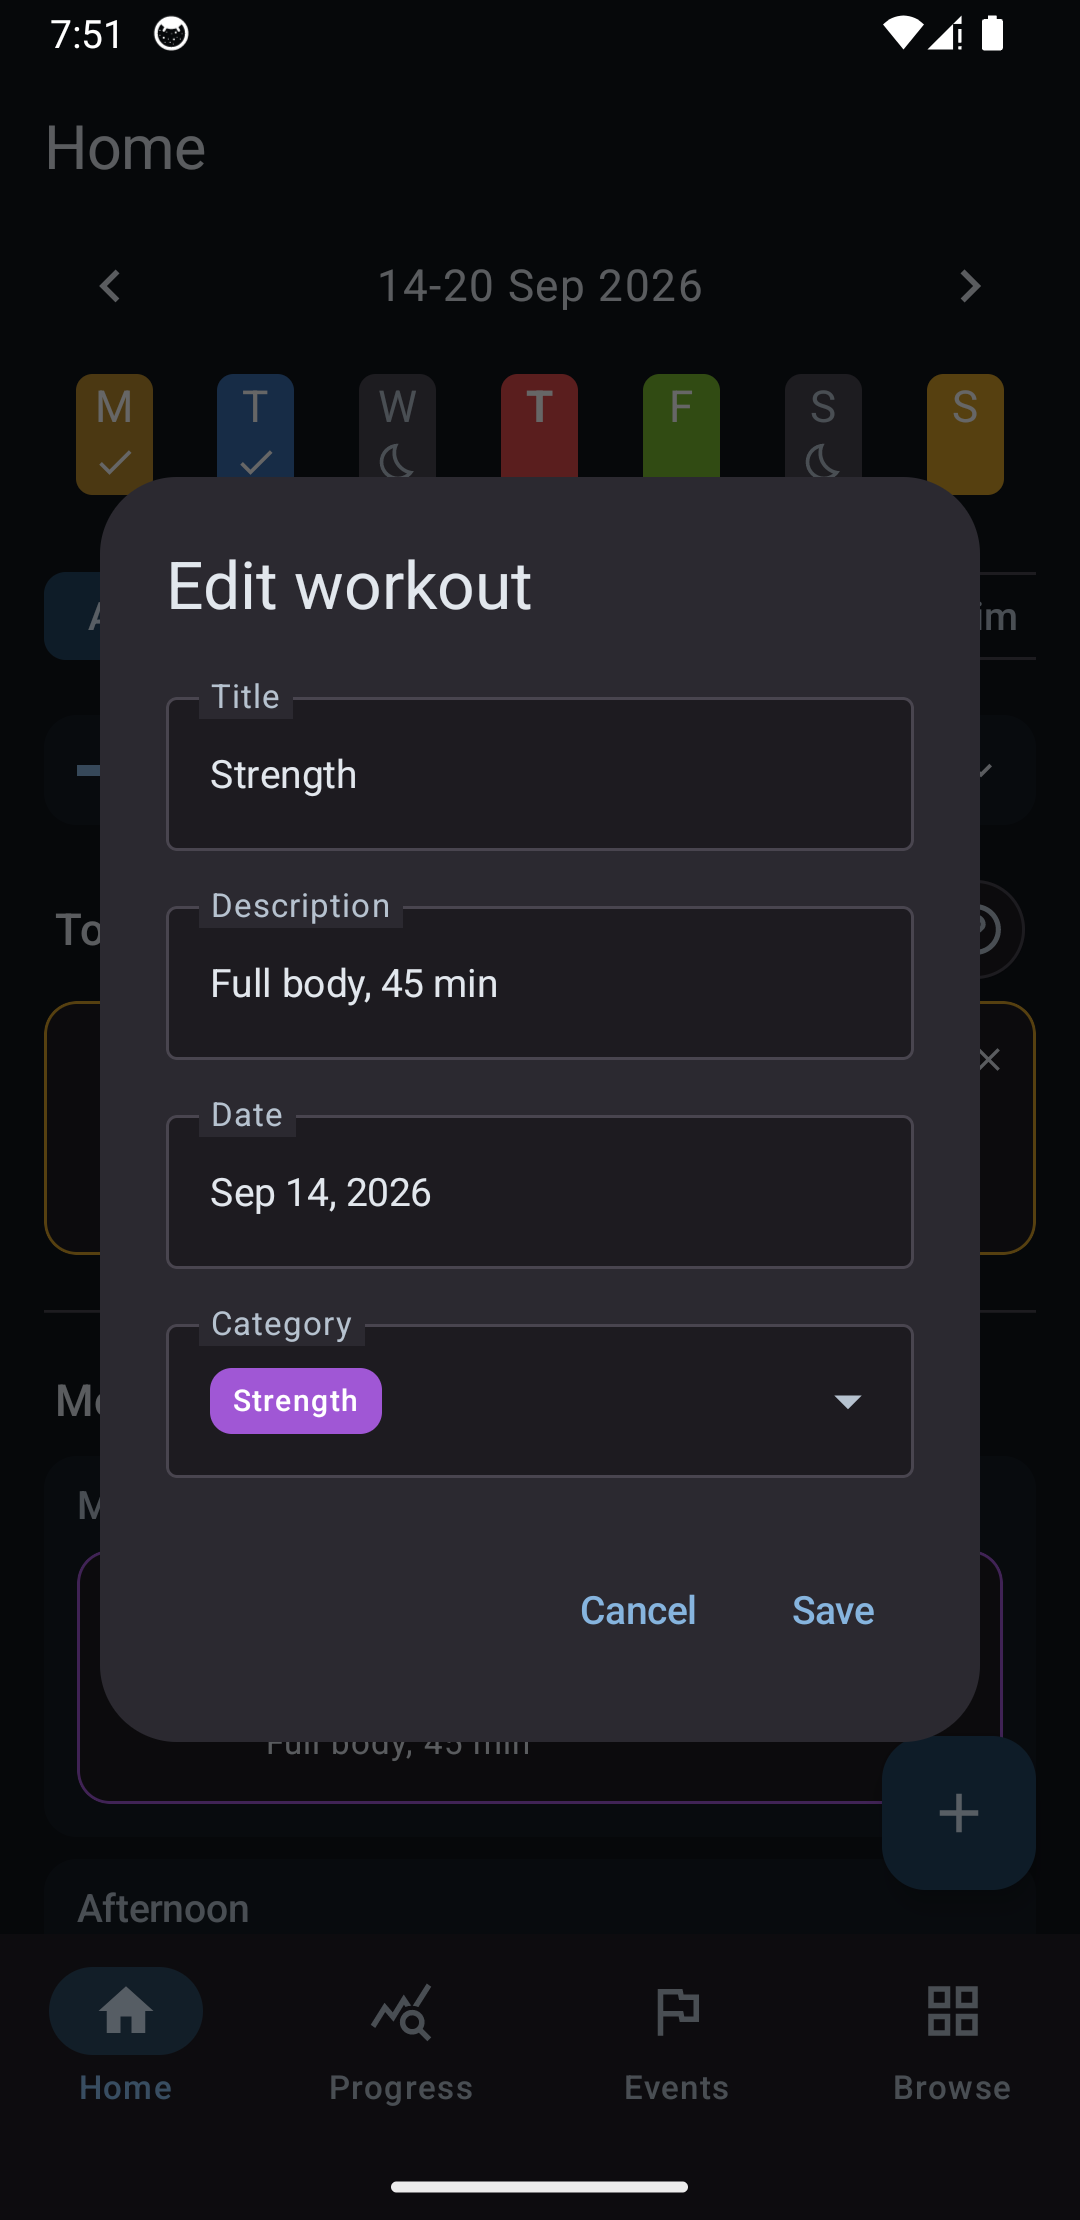
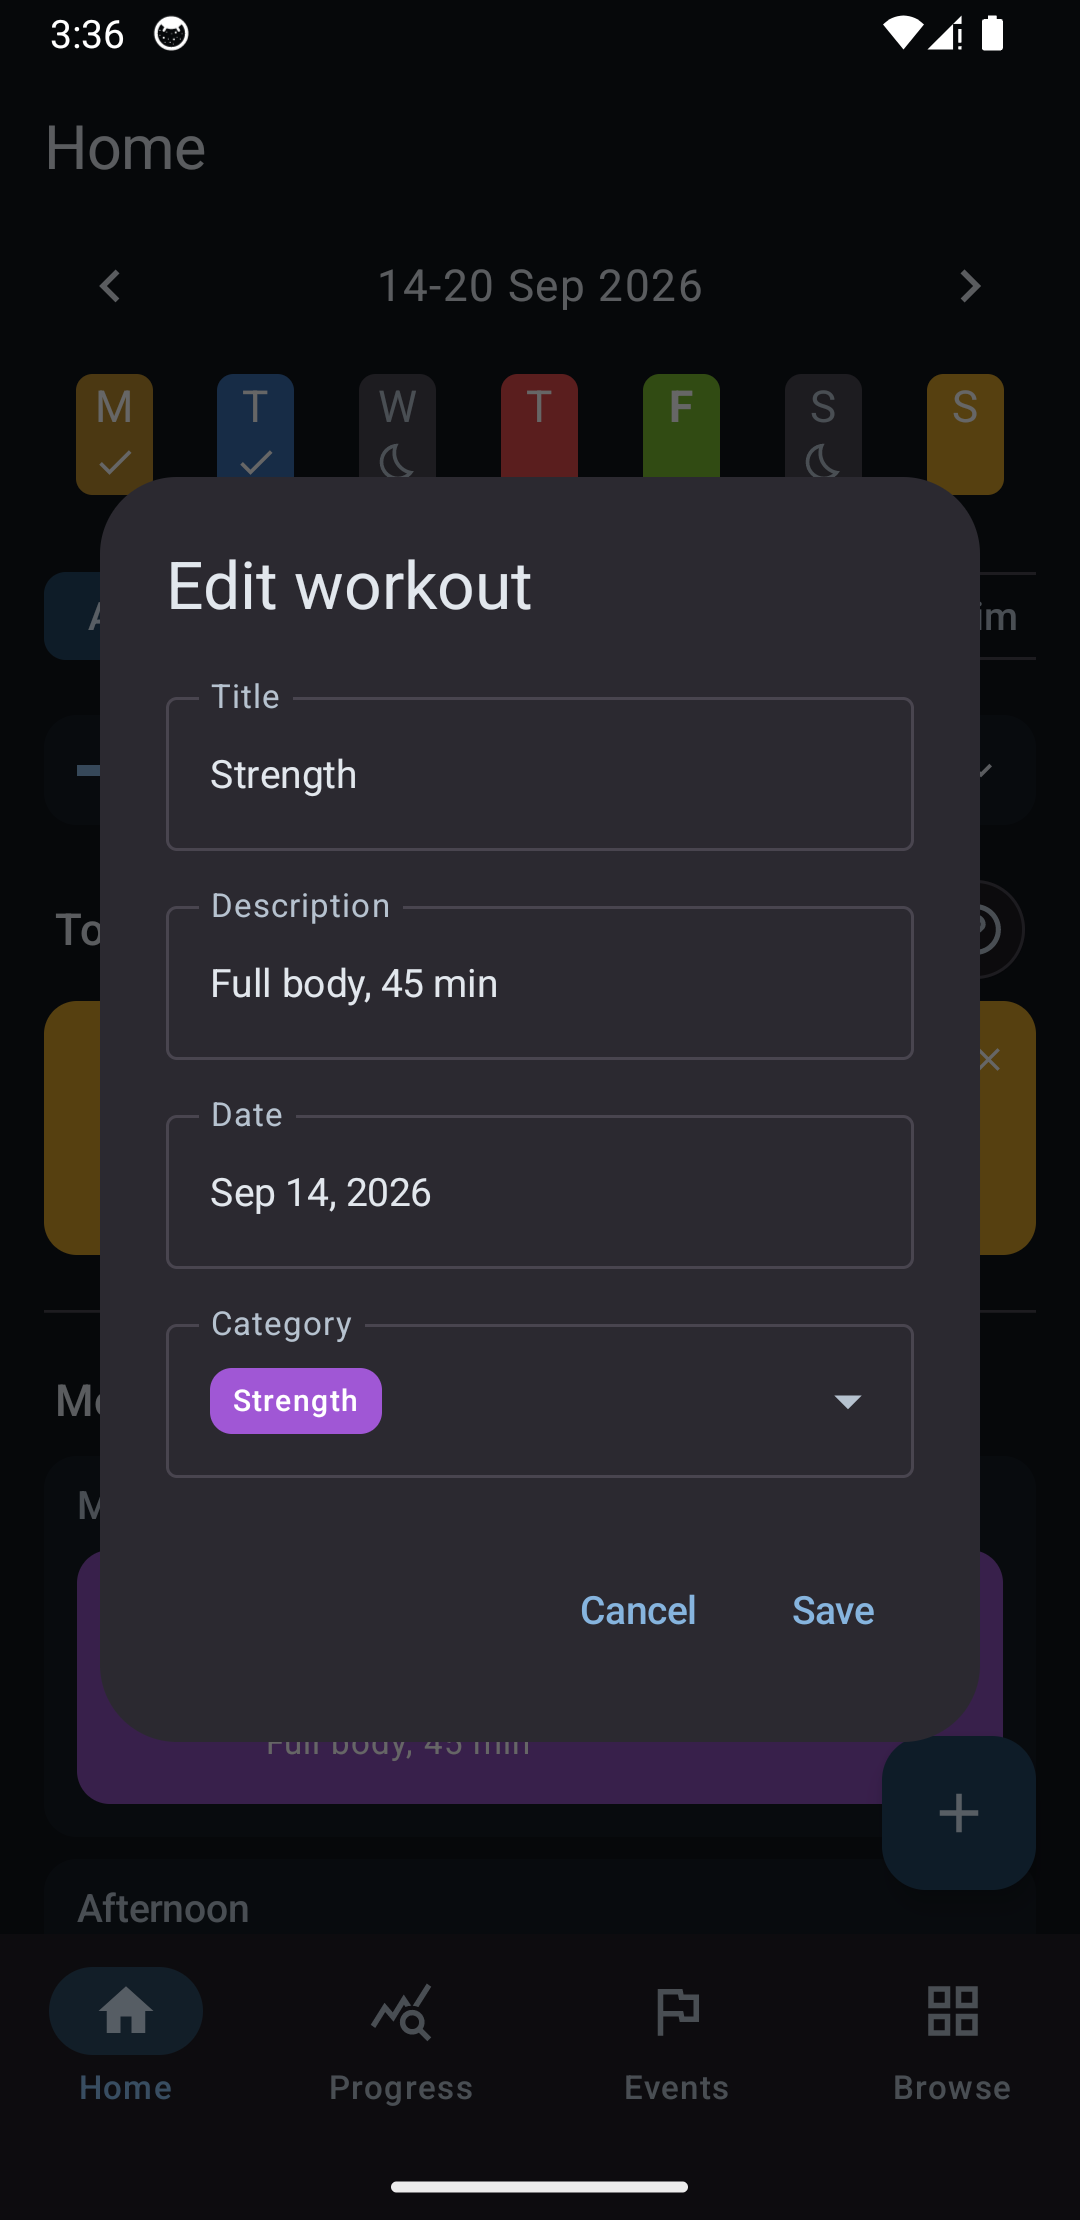
Refine workout dialog field surfaces

diff --git a/app/src/main/java/com/rafaelfelipeac/hermes/core/ui/components/AddWorkoutDialog.kt b/app/src/main/java/com/rafaelfelipeac/hermes/core/ui/components/AddWorkoutDialog.kt
@@ -301,9 +301,9 @@ fun AddWorkoutDialog(
 @Composable
 private fun hermesDialogTextFieldColors(): TextFieldColors =
     OutlinedTextFieldDefaults.colors(
-        focusedContainerColor = colorScheme.surfaceContainerLow,
-        unfocusedContainerColor = colorScheme.surfaceContainerLow,
-        disabledContainerColor = colorScheme.surfaceContainerLow,
+        focusedContainerColor = Color.Transparent,
+        unfocusedContainerColor = Color.Transparent,
+        disabledContainerColor = Color.Transparent,
         focusedBorderColor = colorScheme.primary,
         unfocusedBorderColor = colorScheme.outlineVariant,
     )

diff --git a/LEARNING.md b/LEARNING.md
@@ -710,3 +710,7 @@ Challenge detail headers should use the same summary container as challenge list
 ## Help icon buttons share one neutral treatment
 
 Help affordances appear in Home, Categories, and Settings detail screens, so they should come from one shared component instead of repeating local circle surfaces. The shared neutral bordered treatment makes help read as secondary guidance across destinations without inheriting feature/category colors.
+
+## Dialog field labels should blend with dialog surfaces
+
+Outlined dialog fields read calmer when the field container is transparent and the floating label notch shares the dialog surface. This preserves the form boundary without creating small contrast islands around labels, especially in dark mode.
